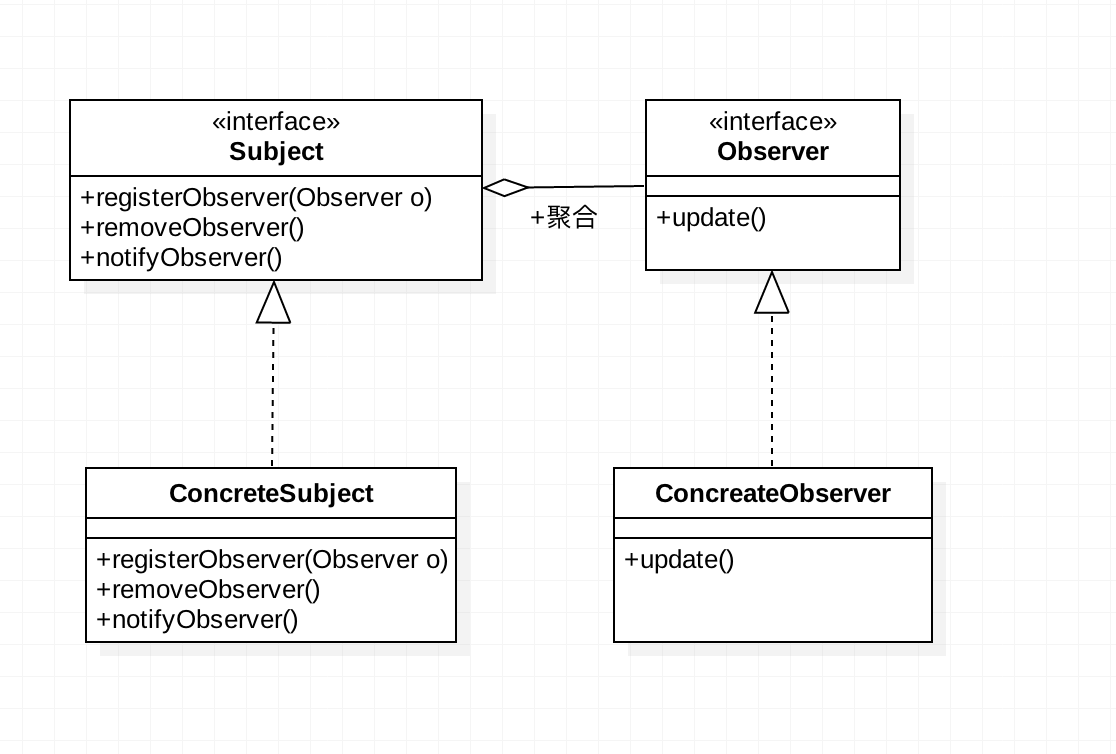
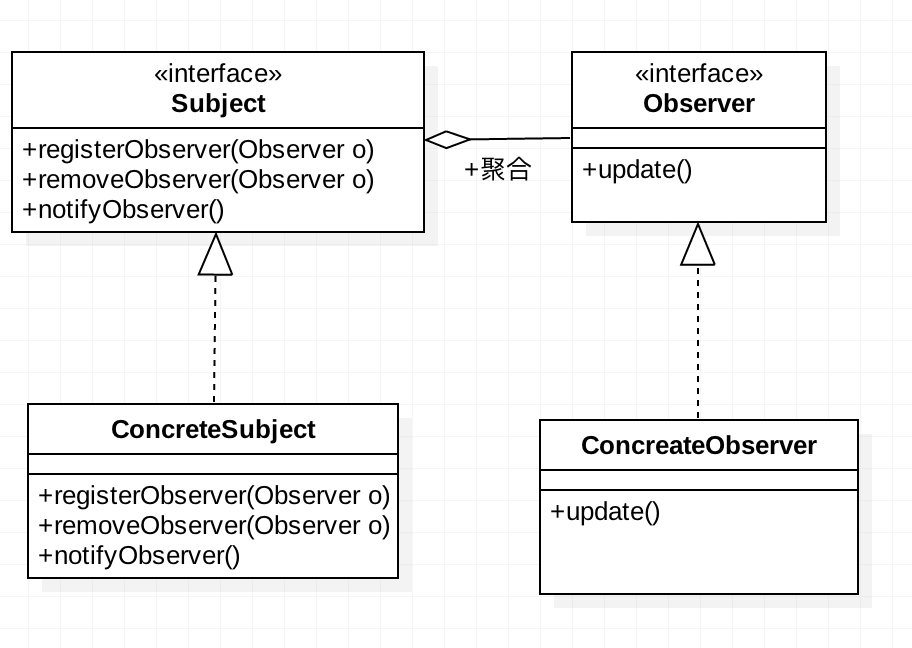
modified observer pattern

diff --git a/src/com/silencedut/behavioral_patterns/ObserverPattern/WeatherDate.java b/src/com/silencedut/behavioral_patterns/ObserverPattern/WeatherDate.java
@@ -1,0 +1,40 @@
+package com.silencedut.behavioral_patterns.ObserverPattern;
+
+
+import java.util.ArrayList;
+import java.util.List;
+
+/**
+ * Created by SilenceDut on 16/6/27.
+ */
+
+public class WeatherDate implements Subject {
+    private List<Observer> observers = new ArrayList<>();
+    @Override
+    public void registerObserver(Observer observer) {
+        observers.add(observer);
+    }
+
+    @Override
+    public void removeObserver(Observer observer) {
+        int index = observers.indexOf(observer);
+        if(index!=-1){
+            observers.remove(index);
+        }
+    }
+
+    @Override
+    public void notifyObservers() {
+        for (Observer observer:observers) {
+            if(observer!=null) {
+                observer.update();
+            }
+        }
+    }
+
+    public void setDate() {
+        notifyObservers();
+    }
+
+
+}

diff --git a/src/com/silencedut/behavioral_patterns/ObserverPattern/TemperatureObserver.java b/src/com/silencedut/behavioral_patterns/ObserverPattern/TemperatureObserver.java
@@ -1,0 +1,23 @@
+package com.silencedut.behavioral_patterns.ObserverPattern;
+
+/**
+ * Created by SilenceDut on 16/6/27.
+ */
+
+public class TemperatureObserver implements Observer {
+    Subject mSubject;
+    TemperatureObserver(Subject subject) {
+        this.mSubject = subject;
+        mSubject.registerObserver(this);
+    }
+
+    @Override
+    public void update() {
+        System.out.println("TemperatureObserver update");
+    }
+
+    public void removeObserver() {
+        mSubject.removeObserver(this);
+    }
+
+}

diff --git a/src/com/silencedut/behavioral_patterns/ObserverPattern/WindObserver.java b/src/com/silencedut/behavioral_patterns/ObserverPattern/WindObserver.java
@@ -1,0 +1,20 @@
+package com.silencedut.behavioral_patterns.ObserverPattern;
+
+/**
+ * Created by SilenceDut on 16/6/27.
+ */
+
+public class WindObserver implements Observer {
+    Subject mSubject;
+    WindObserver(Subject subject) {
+        this.mSubject = subject;
+        mSubject.registerObserver(this);
+    }
+    @Override
+    public void update() {
+        System.out.println("WindObserver update");
+    }
+    public void removeObserver() {
+        mSubject.removeObserver(this);
+    }
+}

diff --git a/src/com/silencedut/behavioral_patterns/ObserverPattern/Main.java b/src/com/silencedut/behavioral_patterns/ObserverPattern/Main.java
@@ -1,0 +1,14 @@
+package com.silencedut.behavioral_patterns.ObserverPattern;
+
+/**
+ * Created by SilenceDut on 16/6/27.
+ */
+
+public class Main {
+    public static void main(String[] args) {
+        WeatherDate weatherDate = new WeatherDate();
+        TemperatureObserver temperatureObserver = new TemperatureObserver(weatherDate);
+        WindObserver windObserver = new WindObserver(weatherDate);
+        weatherDate.setDate();
+    }
+}

diff --git a/src/com/silencedut/behavioral_patterns/ObserverPattern/Subject.java b/src/com/silencedut/behavioral_patterns/ObserverPattern/Subject.java
@@ -1,0 +1,11 @@
+package com.silencedut.behavioral_patterns.ObserverPattern;
+
+/**
+ * Created by SilenceDut on 16/6/27.
+ */
+
+public interface Subject {
+    void registerObserver(Observer observer);
+    void removeObserver(Observer observer);
+    void notifyObservers();
+}

diff --git a/src/com/silencedut/behavioral_patterns/ObserverPattern/Observer.java b/src/com/silencedut/behavioral_patterns/ObserverPattern/Observer.java
@@ -1,0 +1,9 @@
+package com.silencedut.behavioral_patterns.ObserverPattern;
+
+/**
+ * Created by SilenceDut on 16/6/27.
+ */
+
+public interface Observer {
+    void update();
+}

diff --git a/src/com/silencedut/behavioral_patterns/ObserverPattern/design_rules.md b/src/com/silencedut/behavioral_patterns/ObserverPattern/design_rules.md
@@ -12,7 +12,7 @@
 ![image](https://github.com/SilenceDut/DesignPatterns/blob/master/pictures/ObserverUML/observer_uml.png)
 
 ##优缺点
-策略模式的优点
+观察者模式的优点
 
 - 观察者模式可以实现表示层和数据逻辑层的分离，并定义了稳定的消息更新传递机制，抽象了更新接口，使得可以有各种各样不同的表示层作为具体观察者角色。
 - 观察者模式在观察目标和观察者之间建立一个抽象的耦合。
@@ -20,6 +20,7 @@
 
 策略模式的缺点
 
+- 改变接口通知的方式会使子类和主题类的实现都会受到影响
 - 如果一个观察目标对象有很多直接和间接的观察者的话，将所有的观察者都通知到会花费很多时间。
 - 如果在观察者和观察目标之间有循环依赖的话，观察目标会触发它们之间进行循环调用，可能导致系统崩溃。
 
@@ -29,41 +30,3 @@
 - 一个对象必须通知其他对象，而并不知道这些对象是谁。
 
 [**模式Demo**](https://github.com/SilenceDut/DesignPatterns/blob/master/src/com/silencedut/behavioral_patterns/ObserverPattern)
-
-##Android中的源码解析
-![image](https://github.com/SilenceDut/DesignPatterns/blob/master/pictures/StrategyUML/Strategy_ValueAnimator.png)
-PropertyValueHolder主要是在ObjectAnimator里通过属性的get和set方法直接改变属性值。
-通过一系列调用,ValueAnimator的**start()**方法会调用**animateValue(float fraction)**方法,传入的fraction为实际的时间消耗比例。
-```java 
-//ValueAnimator
-    void animateValue(float fraction) {
-        fraction = mInterpolator.getInterpolation(fraction);//改变时间消耗比例;
-        mCurrentFraction = fraction;
-        int numValues = mValues.length;
-        for (int i = 0; i < numValues; ++i) {
-            mValues[i].calculateValue(fraction);//通过时间消耗比率算出当前的值,实际上是调用当前TypeEvaluator的evaluate()计算出相应的值
-        }
-        if (mUpdateListeners != null) {
-            int numListeners = mUpdateListeners.size();
-            for (int i = 0; i < numListeners; ++i) {
-                mUpdateListeners.get(i).onAnimationUpdate(this);
-            }
-        }
-    }
-    
- //ObjectAnimator  继承自ValueAnimator
-    void animateValue(float fraction) {
-        final Object target = getTarget();
-        if (mTarget != null && target == null) {
-            // We lost the target reference, cancel and clean up.
-            cancel();
-            return;
-        }
-        super.animateValue(fraction);//调用ValueAnimator的animateValue()方法
-        int numValues = mValues.length;
-        for (int i = 0; i < numValues; ++i) {
-            mValues[i].setAnimatedValue(target);  //此处调用对象的set改变属性的值
-        }
-    }
-```
-因此可以看出,可以通过实现TypeEvaluator实现evaluate方法或者实现TimeEvaluator实现getInterpolation()来"篡改"时间发生的比例来改变传入到evaluate的fraction值,实现自定义动画
